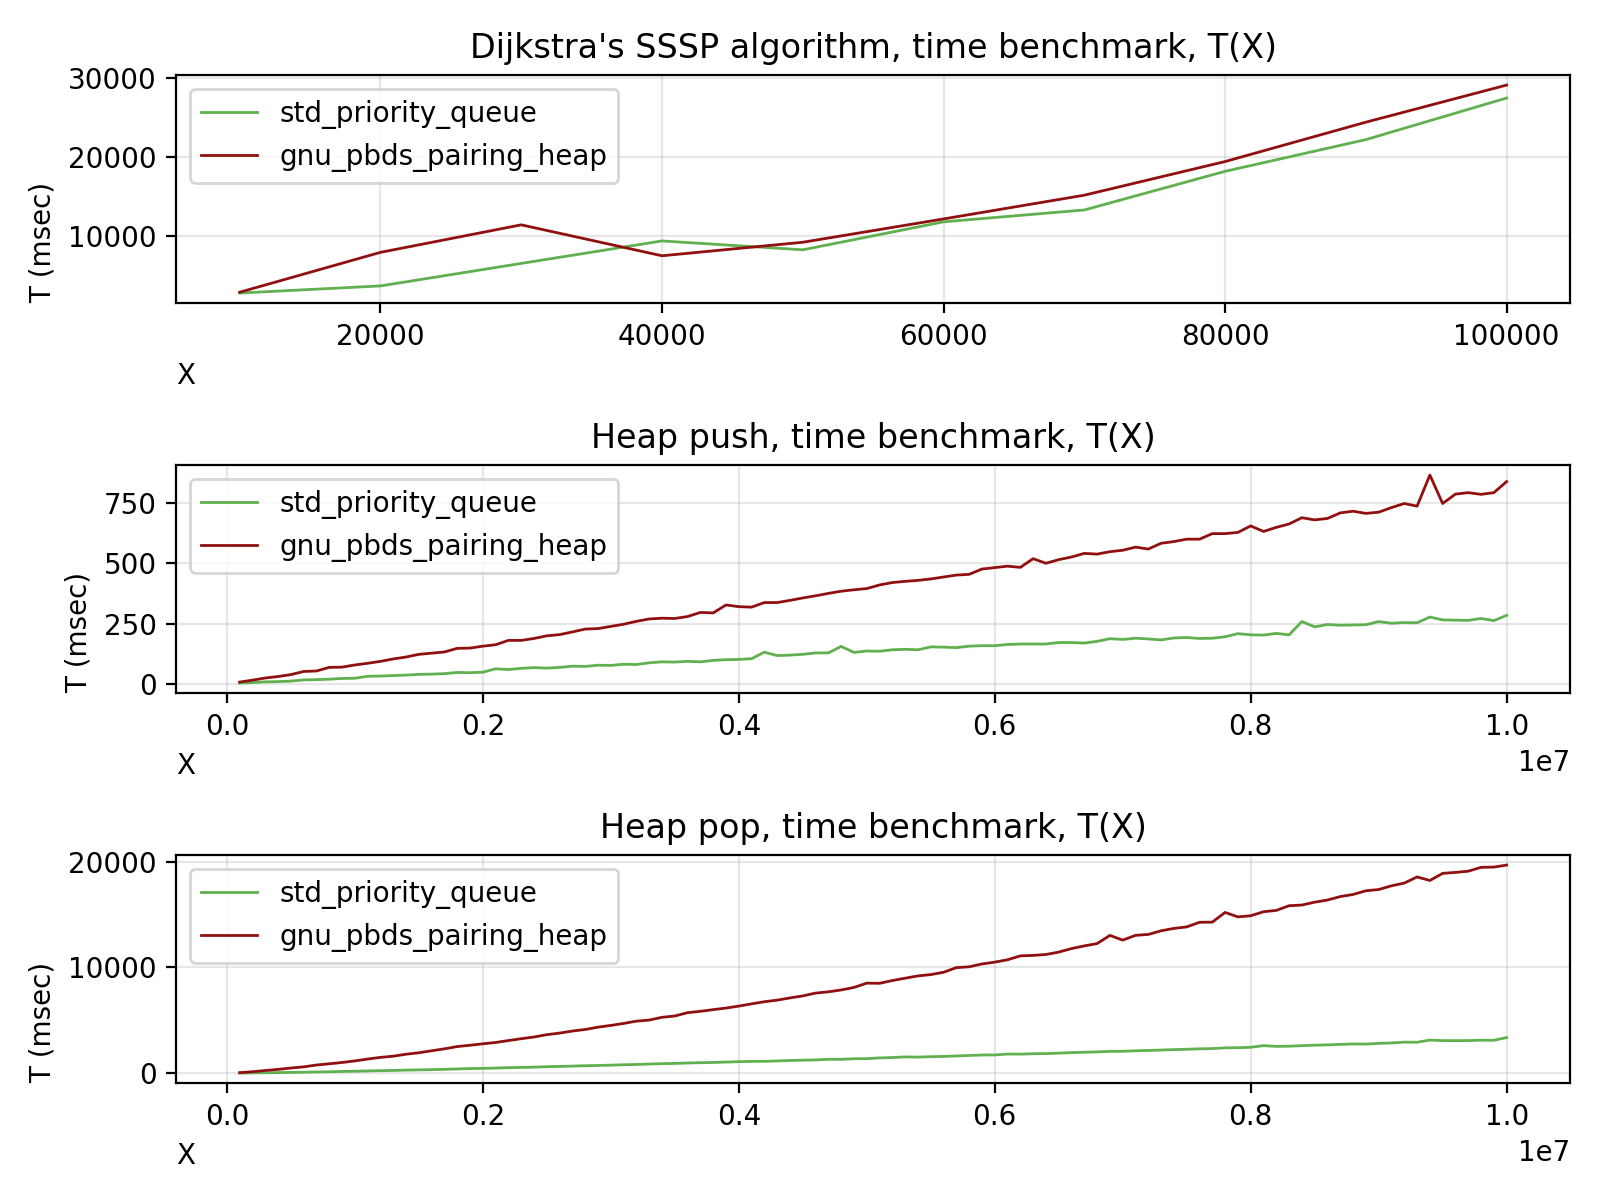
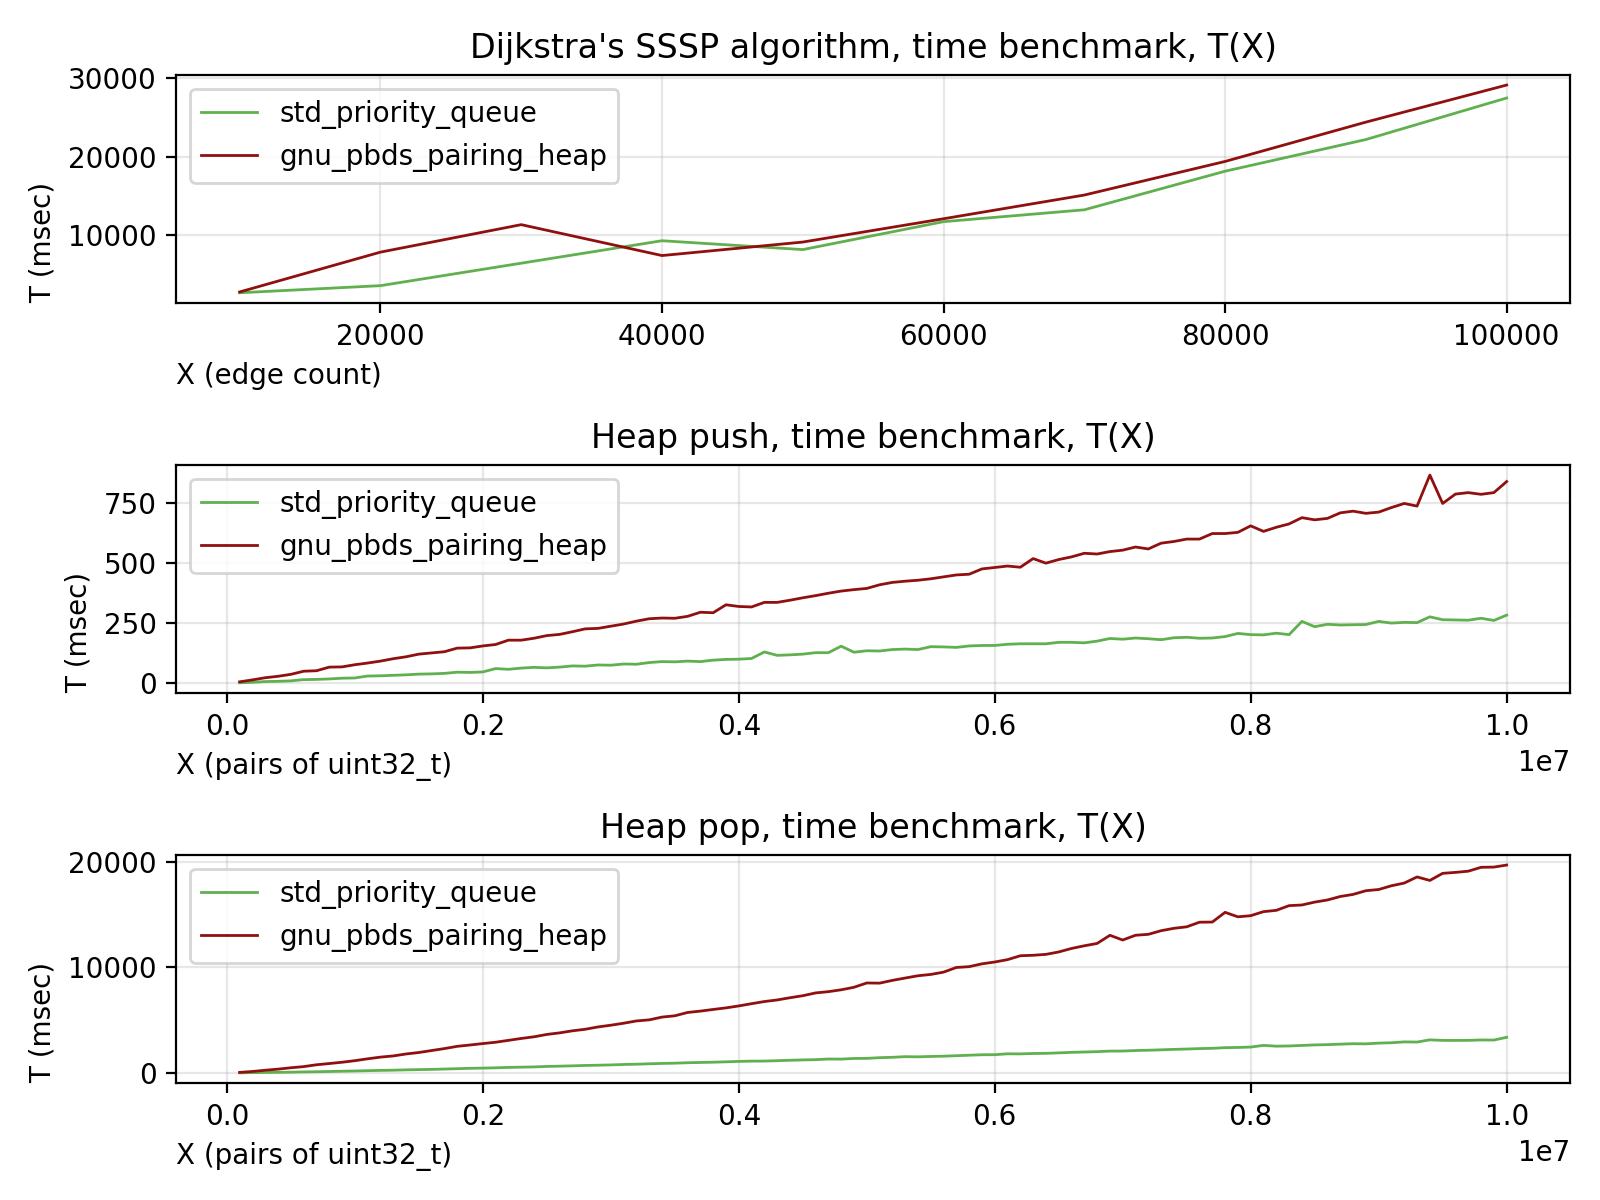
Asher Chen commited at 2023-01-15_07-08-30

diff --git a/script/plot.py b/script/plot.py
@@ -183,7 +183,7 @@ def heap_benchmark():
     color = '#901010',
     linewidth = 1
   )
-  plt.xlabel('X', loc = 'left')
+  plt.xlabel('X (edge count)', loc = 'left')
   plt.ylabel('T (msec)', loc = 'bottom')
   plt.title(f'Dijkstra\'s SSSP algorithm, time benchmark, T(X)')
   plt.legend(['std_priority_queue', 'gnu_pbds_pairing_heap'])
@@ -204,7 +204,7 @@ def heap_benchmark():
     color = '#901010',
     linewidth = 1
   )
-  plt.xlabel('X', loc = 'left')
+  plt.xlabel('X (pairs of uint32_t)', loc = 'left')
   plt.ylabel('T (msec)', loc = 'bottom')
   plt.title(f'Heap push, time benchmark, T(X)')
   plt.legend(['std_priority_queue', 'gnu_pbds_pairing_heap'])
@@ -225,7 +225,7 @@ def heap_benchmark():
     color = '#901010',
     linewidth = 1
   )
-  plt.xlabel('X', loc = 'left')
+  plt.xlabel('X (pairs of uint32_t)', loc = 'left')
   plt.ylabel('T (msec)', loc = 'bottom')
   plt.title(f'Heap pop, time benchmark, T(X)')
   plt.legend(['std_priority_queue', 'gnu_pbds_pairing_heap'])
